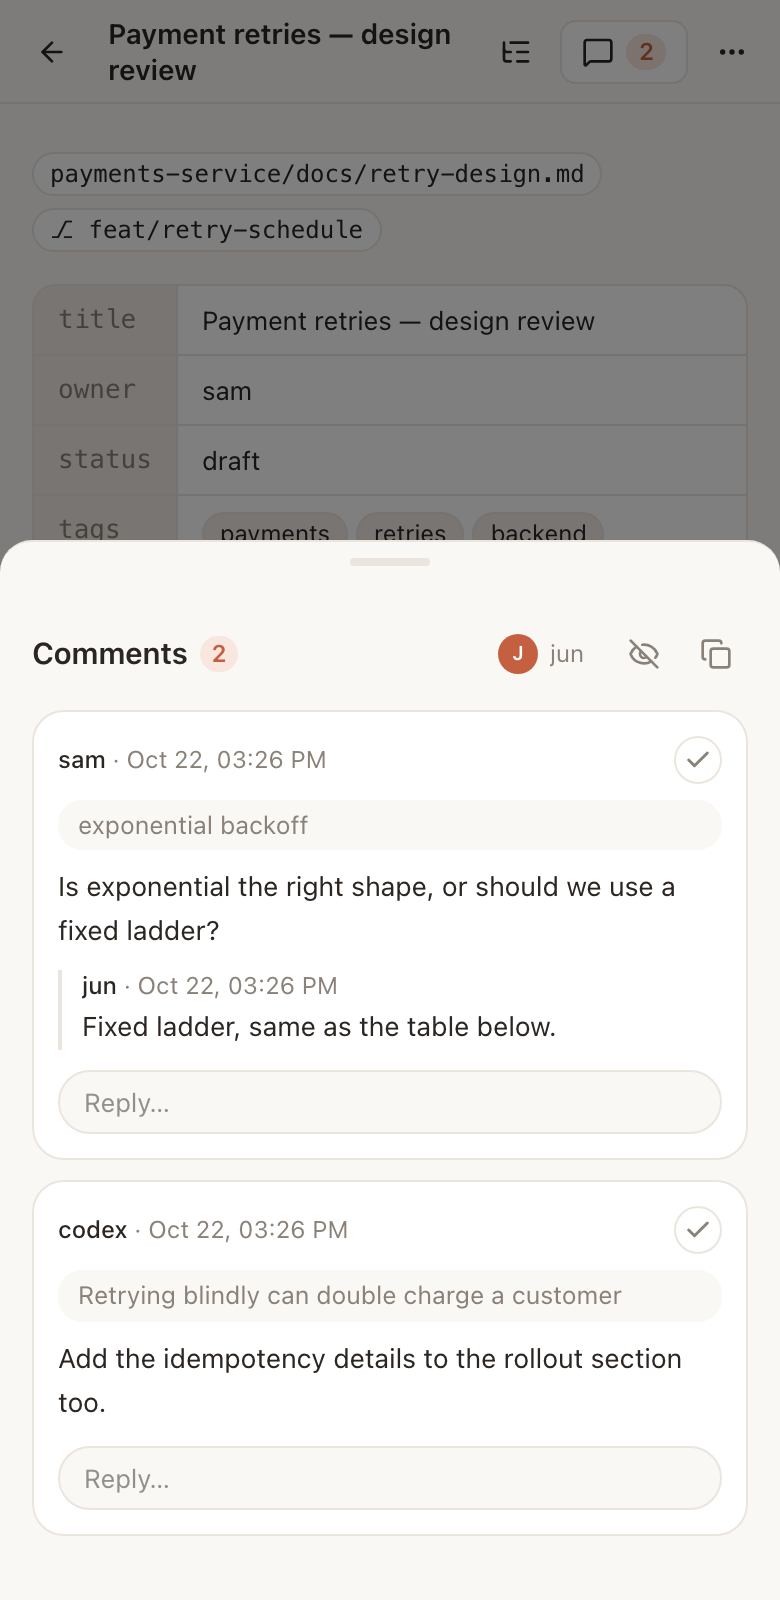
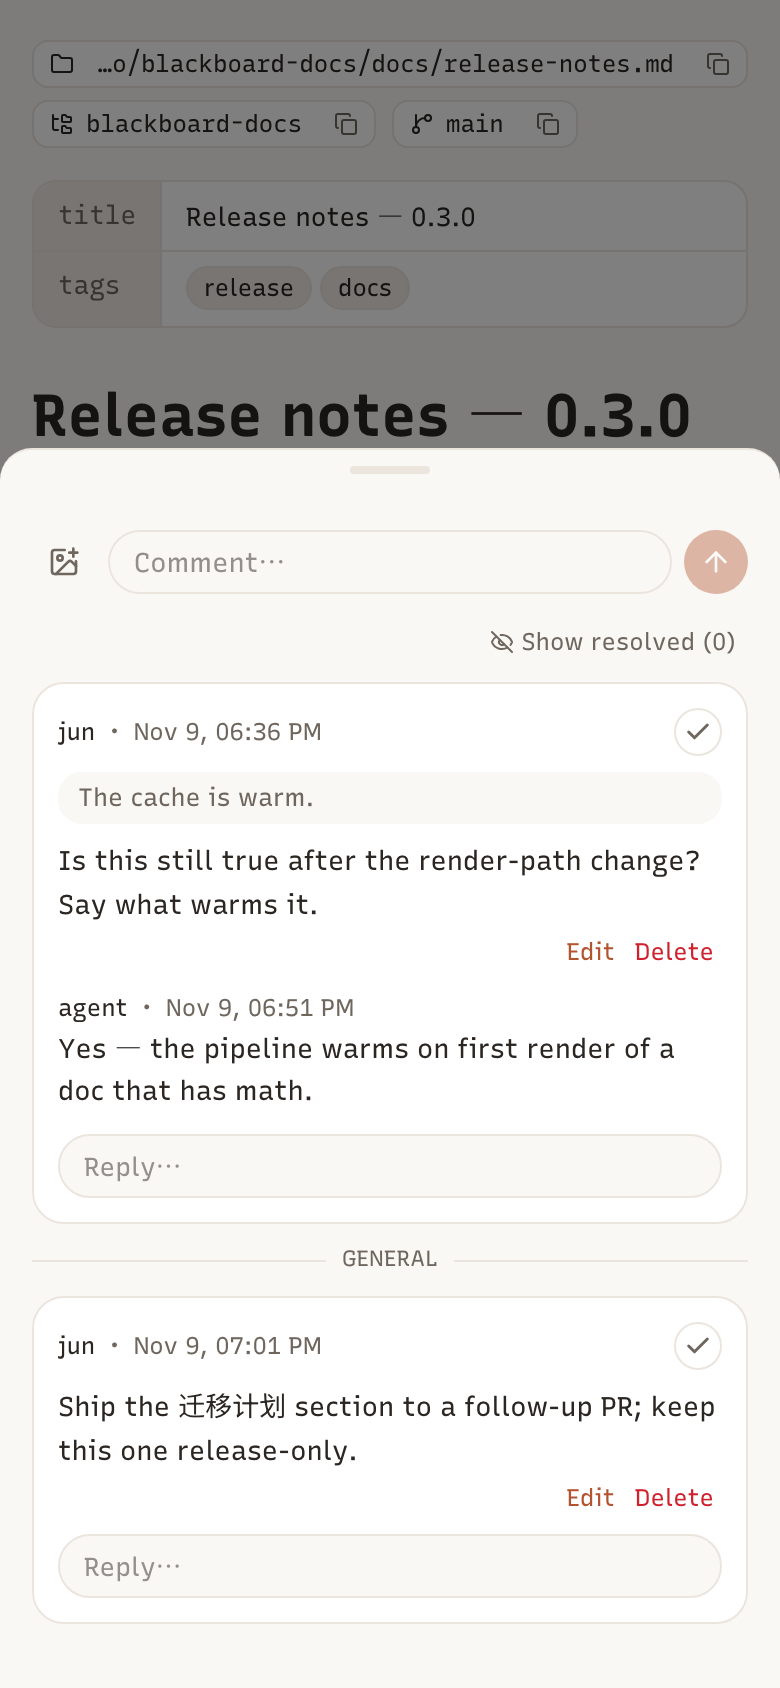
docs: open-source face — reading workspace section, fresh screenshots, community files
README gains a Reading workspace section (and its screenshots); the
stale 2026-10 set is replaced with renders of the current app, taken
from a throwaway fixture home. Adds CONTRIBUTING, CODE_OF_CONDUCT, two
issue forms and a PR checklist.

diff --git a/CODE_OF_CONDUCT.md b/CODE_OF_CONDUCT.md
@@ -1,0 +1,133 @@
+# Contributor Covenant Code of Conduct
+
+## Our Pledge
+
+We as members, contributors, and leaders pledge to make participation in our
+community a harassment-free experience for everyone, regardless of age, body
+size, visible or invisible disability, ethnicity, sex characteristics, gender
+identity and expression, level of experience, education, socio-economic status,
+nationality, personal appearance, race, caste, color, religion, or sexual
+identity and orientation.
+
+We pledge to act and interact in ways that contribute to an open, welcoming,
+diverse, inclusive, and healthy community.
+
+## Our Standards
+
+Examples of behavior that contributes to a positive environment for our
+community include:
+
+* Demonstrating empathy and kindness toward other people
+* Being respectful of differing opinions, viewpoints, and experiences
+* Giving and gracefully accepting constructive feedback
+* Accepting responsibility and apologizing to those affected by our mistakes,
+  and learning from the experience
+* Focusing on what is best not just for us as individuals, but for the overall
+  community
+
+Examples of unacceptable behavior include:
+
+* The use of sexualized language or imagery, and sexual attention or advances of
+  any kind
+* Trolling, insulting or derogatory comments, and personal or political attacks
+* Public or private harassment
+* Publishing others' private information, such as a physical or email address,
+  without their explicit permission
+* Other conduct which could reasonably be considered inappropriate in a
+  professional setting
+
+## Enforcement Responsibilities
+
+Community leaders are responsible for clarifying and enforcing our standards of
+acceptable behavior and will take appropriate and fair corrective action in
+response to any behavior that they deem inappropriate, threatening, offensive,
+or harmful.
+
+Community leaders have the right and responsibility to remove, edit, or reject
+comments, commits, code, wiki edits, issues, and other contributions that are
+not aligned to this Code of Conduct, and will communicate reasons for moderation
+decisions when appropriate.
+
+## Scope
+
+This Code of Conduct applies within all community spaces, and also applies when
+an individual is officially representing the community in public spaces.
+Examples of representing our community include using an official email address,
+posting via an official social media account, or acting as an appointed
+representative at an online or offline event.
+
+## Enforcement
+
+Instances of abusive, harassing, or otherwise unacceptable behavior may be
+reported to the community leaders responsible for enforcement through the
+project's GitHub issues or by contacting the maintainer listed on the
+repository page.
+All complaints will be reviewed and investigated promptly and fairly.
+
+All community leaders are obligated to respect the privacy and security of the
+reporter of any incident.
+
+## Enforcement Guidelines
+
+Community leaders will follow these Community Impact Guidelines in determining
+the consequences for any action they deem in violation of this Code of Conduct:
+
+### 1. Correction
+
+**Community Impact**: Use of inappropriate language or other behavior deemed
+unprofessional or unwelcome in the community.
+
+**Consequence**: A private, written warning from community leaders, providing
+clarity around the nature of the violation and an explanation of why the
+behavior was inappropriate. A public apology may be requested.
+
+### 2. Warning
+
+**Community Impact**: A violation through a single incident or series of
+actions.
+
+**Consequence**: A warning with consequences for continued behavior. No
+interaction with the people involved, including unsolicited interaction with
+those enforcing the Code of Conduct, for a specified period of time. This
+includes avoiding interactions in community spaces as well as external channels
+like social media. Violating these terms may lead to a temporary or permanent
+ban.
+
+### 3. Temporary Ban
+
+**Community Impact**: A serious violation of community standards, including
+sustained inappropriate behavior.
+
+**Consequence**: A temporary ban from any sort of interaction or public
+communication with the community for a specified period of time. No public or
+private interaction with the people involved, including unsolicited interaction
+with those enforcing the Code of Conduct, is allowed during this period.
+Violating these terms may lead to a permanent ban.
+
+### 4. Permanent Ban
+
+**Community Impact**: Demonstrating a pattern of violation of community
+standards, including sustained inappropriate behavior, harassment of an
+individual, or aggression toward or disparagement of classes of individuals.
+
+**Consequence**: A permanent ban from any sort of public interaction within the
+community.
+
+## Attribution
+
+This Code of Conduct is adapted from the [Contributor Covenant][homepage],
+version 2.1, available at
+[https://www.contributor-covenant.org/version/2/1/code_of_conduct.html][v2.1].
+
+Community Impact Guidelines were inspired by
+[Mozilla's code of conduct enforcement ladder][Mozilla CoC].
+
+For answers to common questions about this code of conduct, see the FAQ at
+[https://www.contributor-covenant.org/faq][FAQ]. Translations are available at
+[https://www.contributor-covenant.org/translations][translations].
+
+[homepage]: https://www.contributor-covenant.org
+[v2.1]: https://www.contributor-covenant.org/version/2/1/code_of_conduct.html
+[Mozilla CoC]: https://github.com/mozilla/diversity
+[FAQ]: https://www.contributor-covenant.org/faq
+[translations]: https://www.contributor-covenant.org/translations

diff --git a/README.md b/README.md
@@ -15,6 +15,8 @@ same `blackboard` CLI (see [CLI for agents](#cli-for-agents)).
   <img src="docs/screenshots/phone.png" alt="The same doc on a phone, with the comments sheet open" width="170">
 </p>
 
+![Home: every session as a card](docs/screenshots/home.png)
+
 ## Install
 
 ```sh
@@ -115,6 +117,35 @@ Checks: `bun run typecheck`, `bun run lint`, `bun test`, `bun run build`.
 - **Missing files** — a session whose file was moved or deleted shows as `missing`; open the new
   path with `blackboard open`.
 
+## Reading workspace
+
+`/inbox` is a mail-style inbox for every document you have ever served: the scratchpad plus all
+sessions in one flat list, newest update first.
+
+![The reading workspace: filter rail, document list and preview pane](docs/screenshots/workspace.png)
+
+- **Three states** — every document is **unread**, **reading** or **read**. Opening a row counts
+  as reading it; marking read is always explicit. A document left mid-page keeps its position and
+  resumes where you stopped, and a document whose file changed on disk goes back to unread.
+- **Click a row** — the right pane renders the document inline (same renderer as the doc page),
+  with its general comments as a thread and a **reply box pinned at the bottom**, Gmail-style.
+  `m` toggles read/unread on the selected row, `Enter` opens the doc, `Esc` closes the preview.
+- **Filter and search** — the left rail switches All / Unread / Reading; the bar holds a search
+  box, a repo filter and an **awaiting replies** count (open comments across every document).
+- **On a phone** — the inbox is the list full-screen with a five-tab bar at the bottom:
+  **Inbox**, **Unread**, **Reading**, **New** and **Settings**.
+
+<p>
+  <img src="docs/screenshots/workspace-phone.png" alt="The inbox list on a phone with its five bottom tabs" width="195">
+  <img src="docs/screenshots/workspace-settings.png" alt="The global settings page on a phone" width="195">
+</p>
+
+The settings gear (or the last phone tab) opens `/inbox/settings`, the global settings page:
+appearance (theme, fonts, size), reading behaviour (resume position, mark read on open, body
+width) and the workspace's default repo filter. The old `/workspace` URL redirects here. Reading
+state lives in `$BLACKBOARD_HOME/reading-state.json` next to `sessions.json`, plain JSON you can
+read or hand-edit.
+
 ## CLI for agents
 
 `blackboard` opens files and reads and answers comments from a shell, so any agent with a shell
@@ -168,6 +199,7 @@ blackboard resolve docs/design.md <comment-id>     # once it is settled
 ```text
 $BLACKBOARD_HOME/
   sessions.json                 the registered files
+  reading-state.json            the inbox's per-document reading record (status, position)
   server.json, server.log       the web app `serve start` launched: pid and url; its output
   sessions/<id>/comments.json   one session's comments
   scratchpad.md                 the scratchpad
@@ -233,14 +265,16 @@ half-written; a file that does not parse is reported, never overwritten):
 ## Layout
 
 ```text
-app/                      Home (/), a session (/s/<id>), /api/comments, /api/watch (SSE)
-components/               TopBar (tabs, toggles, menu), SessionTable, DocView (selection + highlights, collapsible panels),
+app/                      Home (/), a session (/s/<id>), the inbox (/inbox, /inbox/settings), /api/comments, /api/watch (SSE)
+components/               TopBar (tabs, toggles, menu), SessionTable, ReadingWorkspace (rail, list, preview), DocView (selection + highlights, collapsible panels),
                           CommentPanel, Toc, Mermaid; ui/ holds the shadcn pieces; chrome.ts is the shared panel state
 app/themes.css            one complete palette per [data-theme] block
 app/fonts.css             @font-face rules and the font stacks keyed by data-font-*
 app/katex.css            KaTeX's stylesheet; its woff2 faces are served from public/fonts/katex/
 app/globals.css           Tailwind, the markdown styles for a rendered doc
 lib/prefs.ts              the persisted reading record (theme, three fonts, both widths), parser + boot script
+lib/reading-state.ts      the inbox's state file (status + scroll position per document), locked atomic writes
+lib/reading-workspace.ts  the inbox's server assembly: list, preview, state writes
 lib/theme.ts, lib/fonts.ts  the palettes and the picker vocabularies
 public/fonts/             QuBlack Latin subsets (.woff2) + OFL licence
 scripts/subset-fonts.py   regenerates those subsets from a QuBlack release
@@ -263,8 +297,8 @@ Built with Next.js 16, React 19, Tailwind 4 and [shadcn/ui](https://ui.shadcn.co
 **Three palettes.** `paper` is the warm theme the app had, with two tokens moved to reach AA
 (`--muted-foreground` `#8a8178` → `#6f675e` at 5.24:1, `--primary` `#c4603f` → `#b3532f` at
 4.72:1); every other value is unchanged. `plain` is a neutral white/graphite light theme with a
-blue accent, `night` is a near-black dark theme. Pick one from the palette button in the top bar;
-the default is `paper`.
+blue accent, `night` is a near-black dark theme. Pick one from the palette button in the top bar
+or under **Appearance** on `/inbox/settings`; the default is `paper`.
 
 **The conventions it follows.** The token set is shadcn/ui's vocabulary — semantic roles with a
 `-foreground` partner for every surface, the `@theme inline` mapping in `globals.css`, the

diff --git a/CONTRIBUTING.md b/CONTRIBUTING.md
@@ -1,0 +1,88 @@
+# Contributing to Blackboard
+
+Thanks for taking the time. Blackboard is a local markdown review app: a Next.js web app plus the
+`blackboard` CLI that coding agents drive. This file is the short version of what a change needs.
+
+## Set up
+
+You need **Bun 1.3+** (Node 20.9+ runs the built CLI, but the repo builds and tests with Bun).
+
+```sh
+git clone https://github.com/gjuoun/blackboard.git
+cd blackboard
+bun install
+bun dev                     # http://127.0.0.1:38770
+```
+
+`bun dev` uses `~/.blackboard` for sessions. To keep experiments away from your real data, point
+`BLACKBOARD_HOME` at a throwaway folder:
+
+```sh
+BLACKBOARD_HOME=/tmp/bb-dev bun dev
+```
+
+## The four gates
+
+Every pull request must pass all four, unpiped (a pipeline's exit status is the last command's,
+so `bun test | tail` can hide a red run):
+
+```sh
+bun run typecheck     # next typegen && tsc --noEmit
+bun run lint          # eslint
+bun test              # unit tests
+bun run build         # next build
+```
+
+CI runs the same four plus `build:server` and `build:cli`, so a green local run should be a green
+PR.
+
+## Branch and pull request
+
+- Branch per change off `main`: `feat/<topic>`, `fix/<topic>`, `chore/<topic>` or `docs/<topic>`.
+- Small, topical commits; English, conventional subjects (`feat:`, `fix:`, `chore:`, `docs:`,
+  `test:`).
+- Open the PR against `main`, fill in the template, and say what you verified — with the numbers
+  a reviewer would check.
+- One commit per logical change is welcome; a change touching code and docs can separate the two.
+
+## Tests
+
+Every behaviour change lands with a test in the same commit. Tests sit next to the code as
+`<name>.test.ts` / `<name>.test.tsx`, assert the observable (the string written, the bytes on
+disk), and never read ambient machine state — no pid, no wall clock, no status of whatever is
+running.
+
+```sh
+bun test                    # whole suite
+bun test lib/theme.test.ts  # one file
+```
+
+## Code style
+
+- **`lib/` is the core** and stays framework-free: no `next/*` imports, no React, no JSX. Route
+  handlers in `app/` are thin boundary adapters: decode the request, run the program, shape plain
+  JSON.
+- **Effect-TS for fallible IO.** No `try`/`catch` inside Effect code — `Effect.try` for impure
+  calls, tagged errors plus `catchTag`, `Effect.ensuring` for cleanup. `runPromise` only at the
+  edges (`lib/effect/respond.ts`, `bin/blackboard.ts`, tests).
+- **Plain data crosses every outbound face** — HTTP/JSON, SSE, CLI stdout, React props. Tagged
+  errors and classes are converted before they cross.
+- **300 lines per file is a hard cap**; split by concept, not by line count.
+- Naming: files `kebab-case.ts`, types and components `PascalCase`, values `camelCase`.
+
+Read [AGENTS.md](AGENTS.md) for the full contract — the layering rules, the file-store discipline
+and the performance red lines all live there.
+
+## What not to commit
+
+- Build products: `server/`, `dist/`, `.next/`, `*.tsbuildinfo`. They are gitignored; CI builds
+  them.
+- No secrets, tokens, internal hostnames, tracker ids or personal absolute paths — this repo is
+  public.
+- Screenshots and fixtures must come from a throwaway `BLACKBOARD_HOME`, never from your real
+  `~/.blackboard` documents.
+
+## Reporting bugs
+
+Use the **Bug report** issue template. If the app is up, `blackboard serve status` prints the pid,
+log file and URL — the log is the first place to look.

diff --git a/.github/PULL_REQUEST_TEMPLATE.md b/.github/PULL_REQUEST_TEMPLATE.md
@@ -1,0 +1,28 @@
+## What
+
+<!-- What changed, in one or two sentences for a reader of the public history. -->
+
+## Why
+
+<!-- The problem or issue this addresses. Link the issue if there is one. -->
+
+## Gates
+
+All four gates ran locally, unpiped:
+
+- [ ] `bun run typecheck`
+- [ ] `bun run lint`
+- [ ] `bun test`
+- [ ] `bun run build`
+
+## Verified
+
+<!-- What you checked beyond the gates, with numbers where a reviewer can re-check:
+     commands run, pages visited, bytes on disk. -->
+
+## Checklist
+
+- [ ] Behaviour changes come with a test in this PR (`<name>.test.ts` next to the code)
+- [ ] No build products (`server/`, `dist/`, `.next/`) or secrets in the diff
+- [ ] No functional change to files outside this PR's scope
+- [ ] Docs updated when the behaviour or setup changed (README, AGENTS.md contract)
